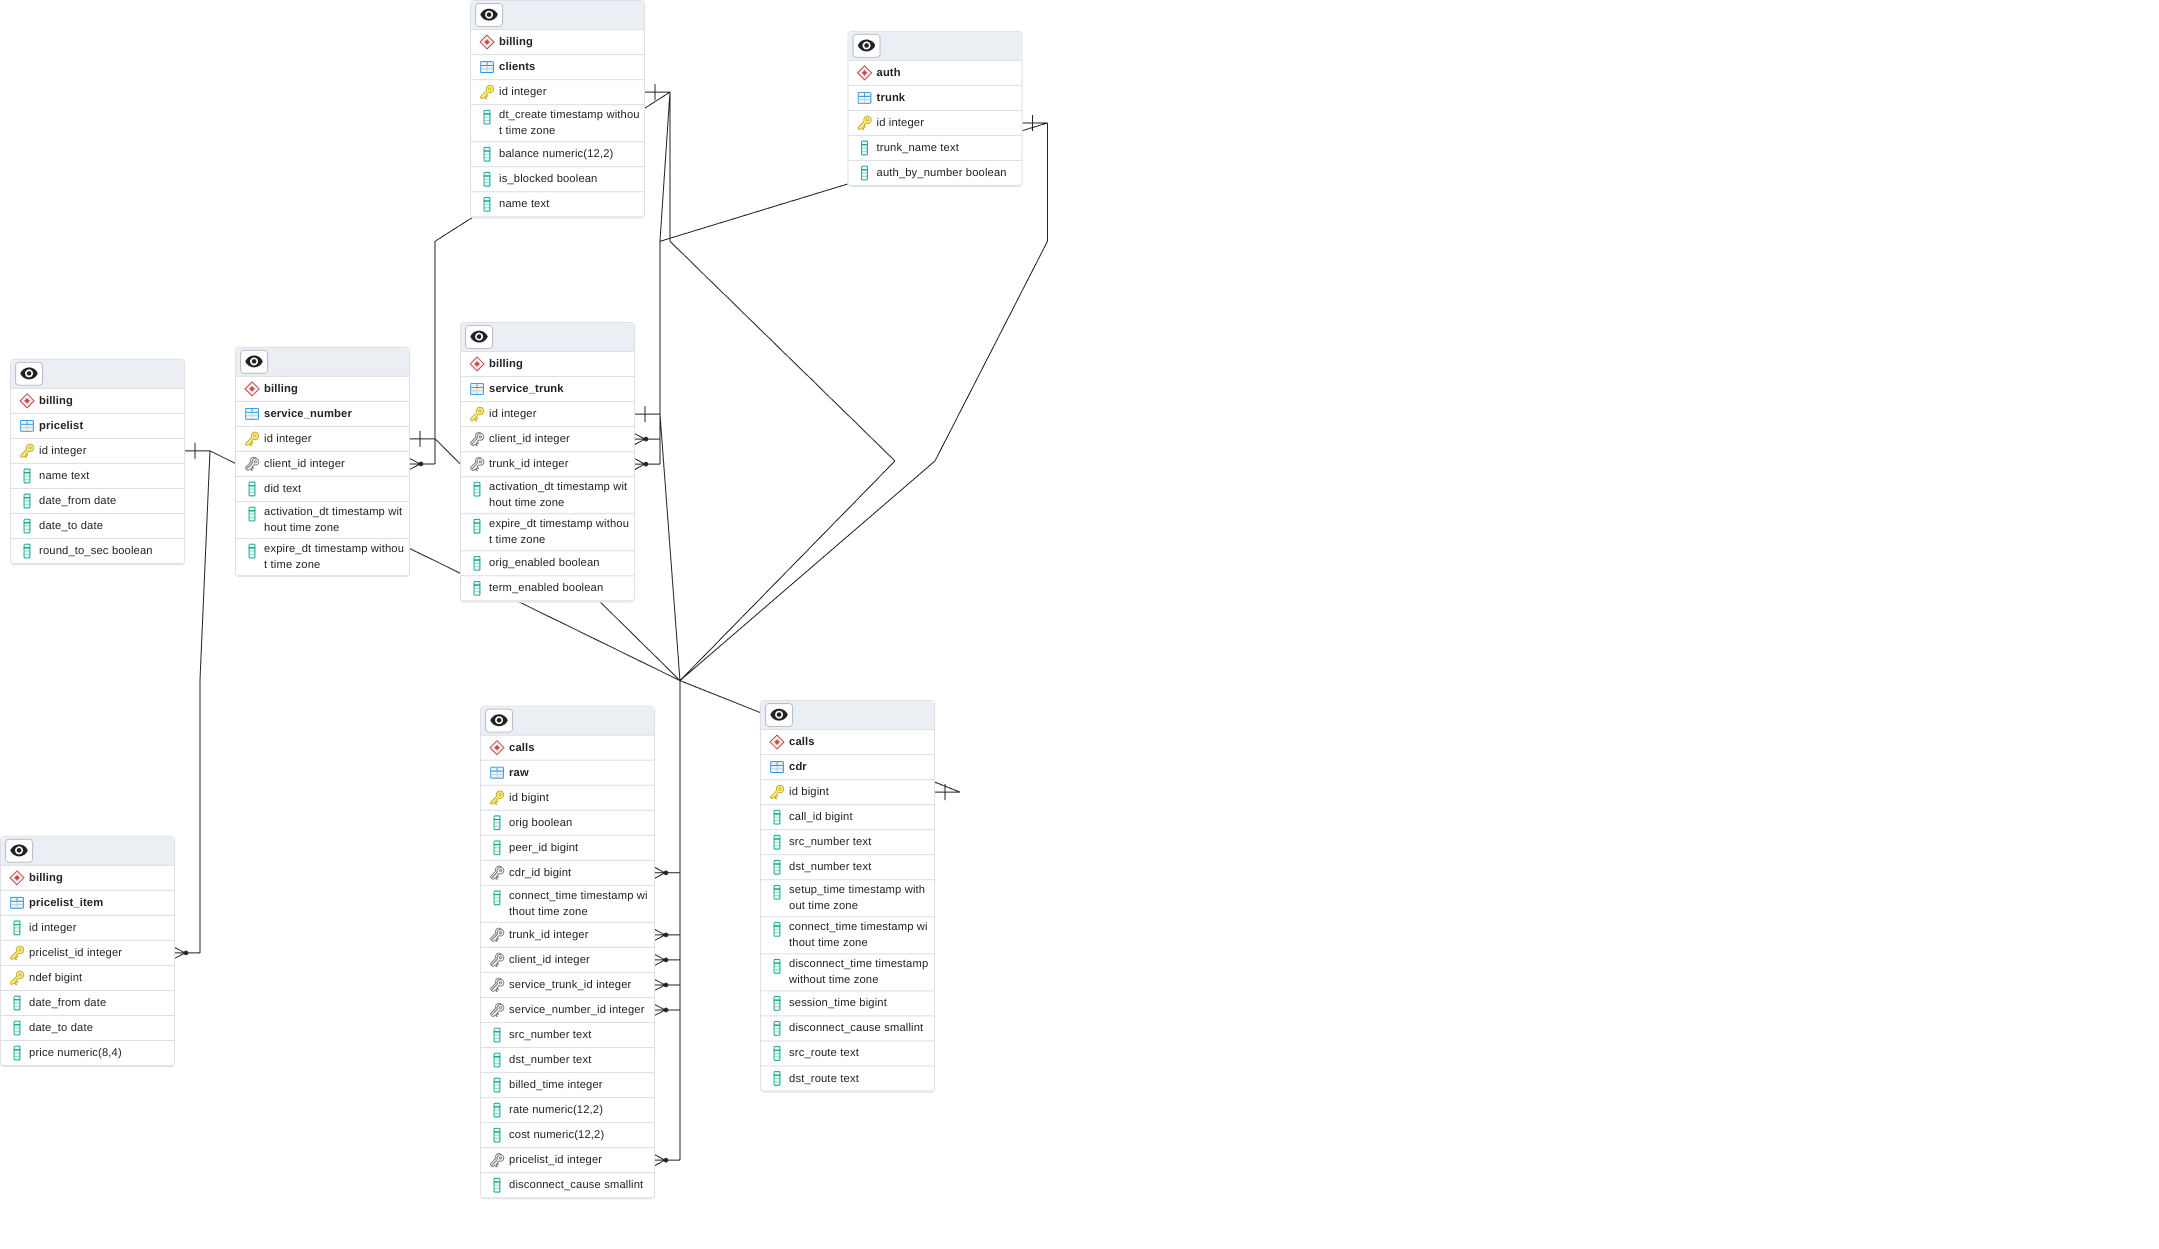
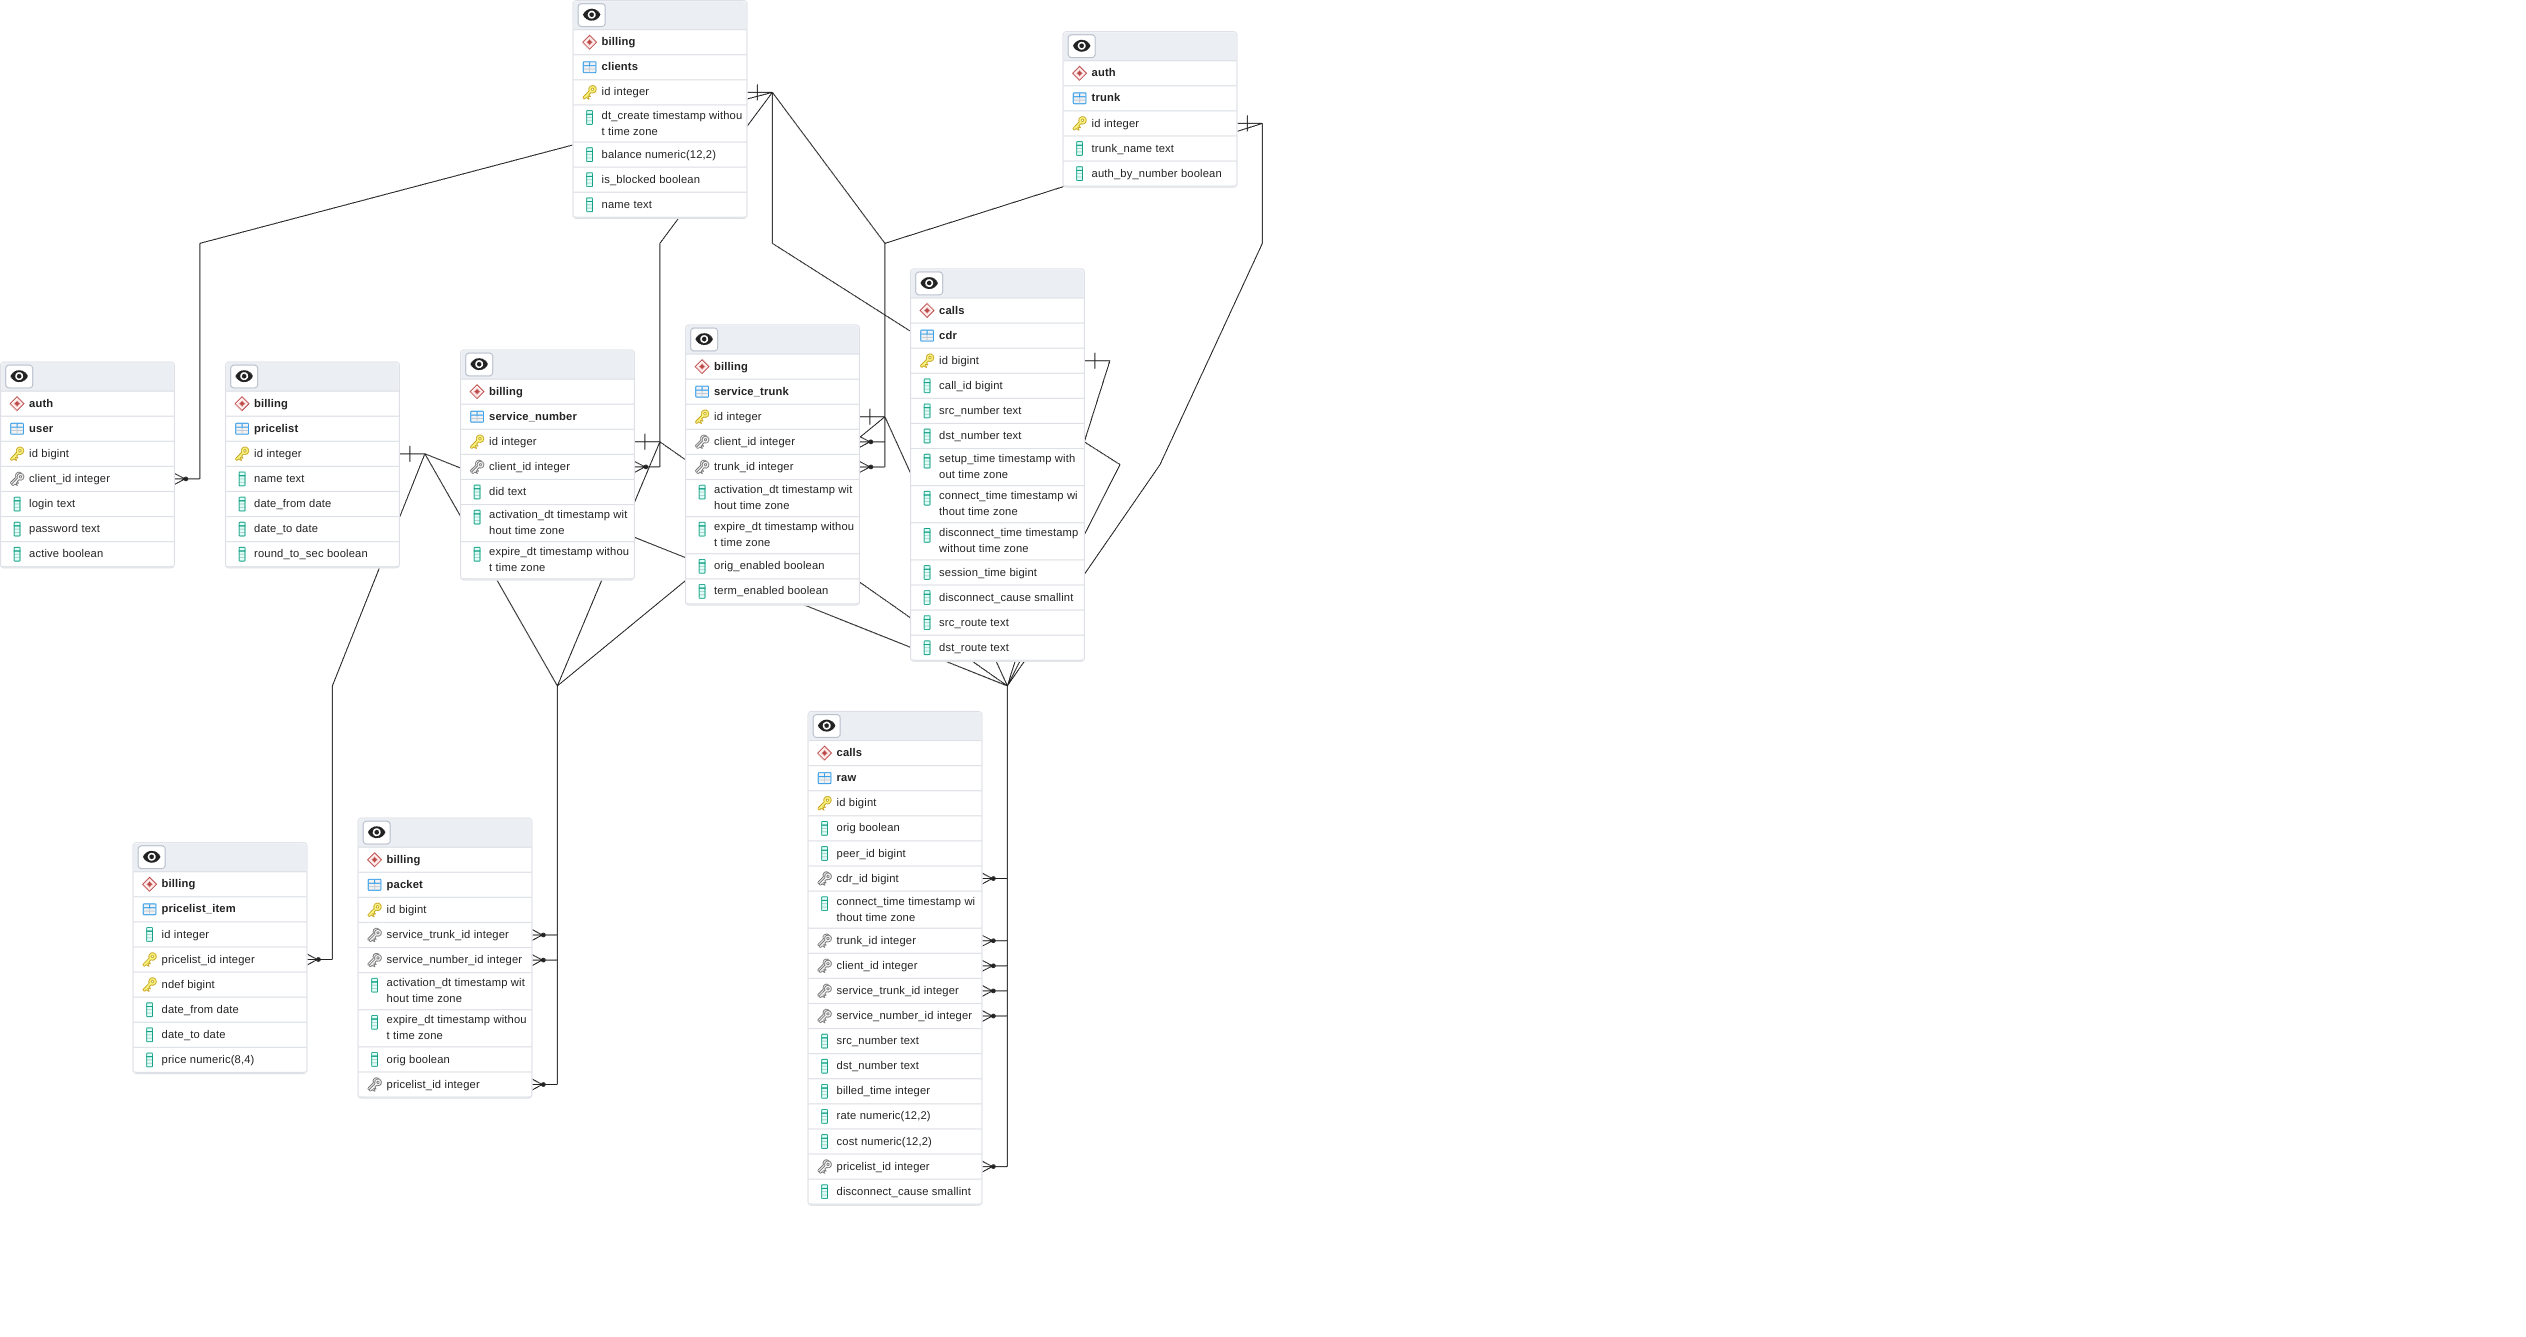
Db 1 (#4)
* fix

* step

* Двигаемся.

* fix

* Двигаемся.

* двигаемся.

* fix

* fix

* fix

* fix

* fix

* fix

* fix

* fix

* fix

* fix

* ашч

* fix

* Двигаемся.

* fix

* Двигаемся.

* фикс

* fix

diff --git a/docs/dbSchema.md b/docs/dbSchema.md
@@ -59,11 +59,29 @@
 
 <tr>
 <td>billing</td>
+<td>packet</td>
+<td>client_id -> billing.client.id</td>
+<td>Содержит информацию о принадлежности номеров абонентам узла. Услуга номер имеет время начала действия и время окончания. в один момент номер может принадлежать только одному абоненту</td>
+</tr>
+
+<tr>
+<td>billing</td>
 <td>service_trunk</td>
 <td>client_id -> billing.client.id
 <br>trunk_id -> auth.trunk.id
 </td>
 <td>Содержит информацию о принадлежности транков абонентам узла. Услуга номер имеет время начала действия и время окончания. Содержит настройки разрешающие Узлу связи принимать и отправлять звонки в этот транк</td>
+</tr>
+
+<tr>
+<td>auth</td>
+<td>packet</td>
+<td>
+service_trunk_id -> billing.service_trunk.id<br>
+service_number_id -> billing.service_number.id<br>
+pricelist_id -> billing.pricelist.id
+</td>
+<td>Содержит привязку действующих прайслистов к услугам. прайслит может приненяться для оригинационных и терминационных плеч. имеет срок действия. прайслистов может быть много. выбирается с наименьшей ценой.</td>
 </tr>
 
 <tr>
